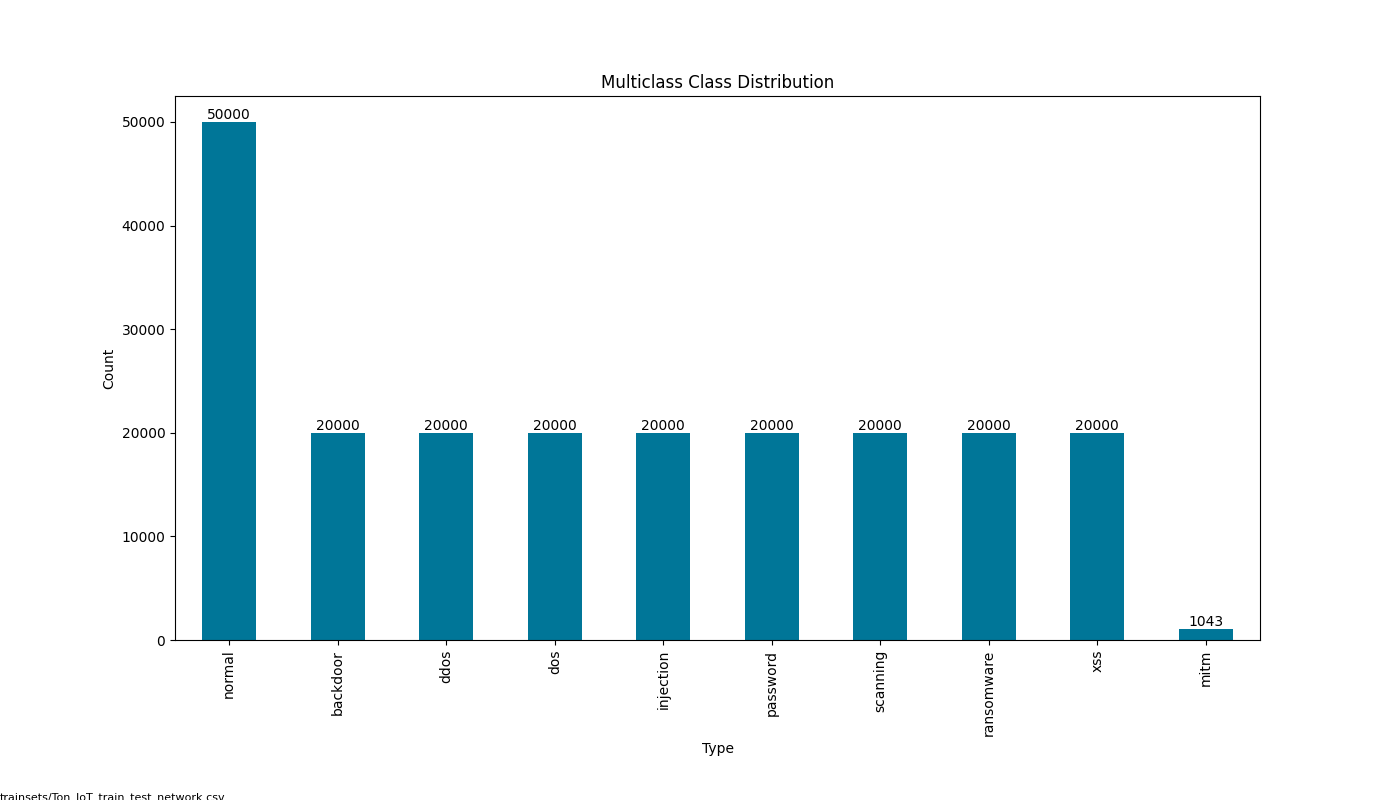
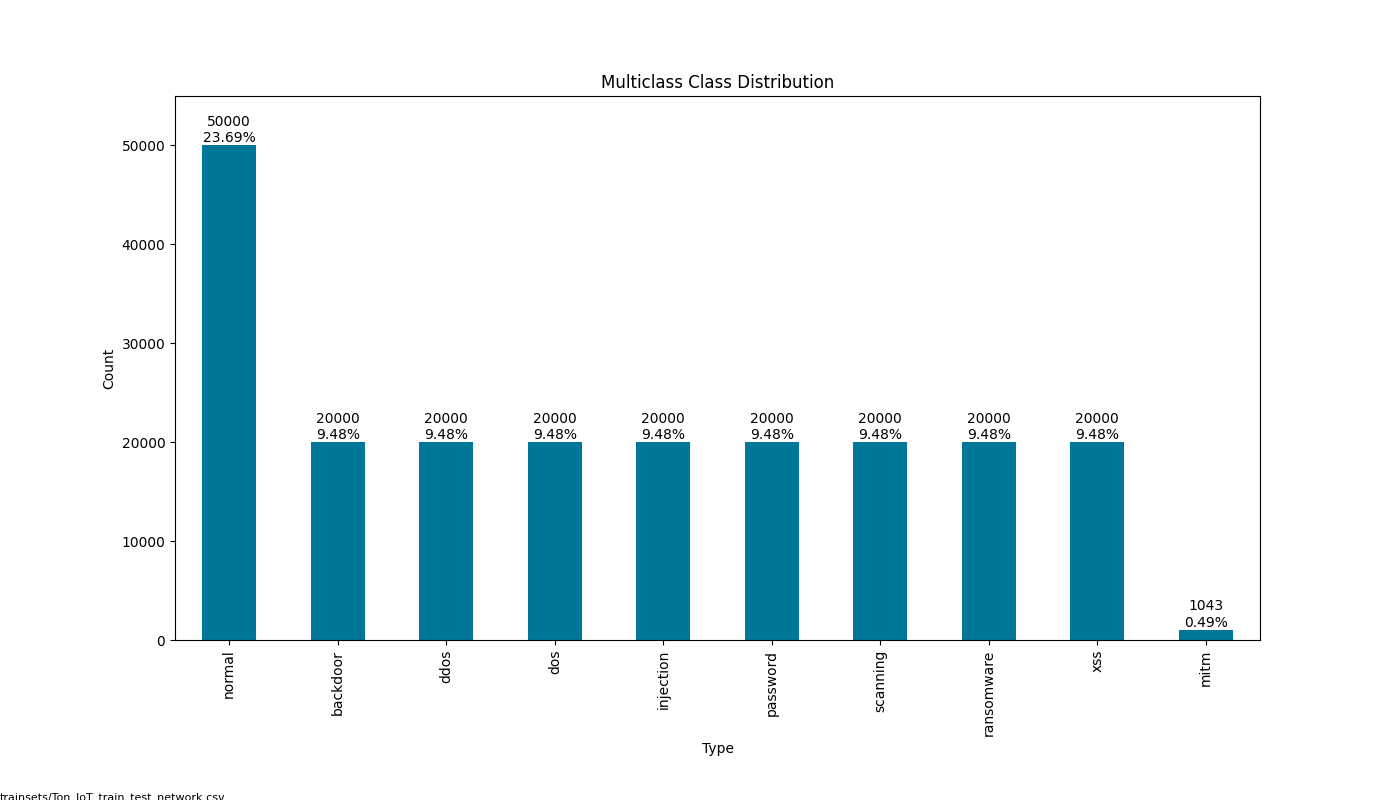
graphics pimp and stats

diff --git a/1-clean.py b/1-clean.py
@@ -140,19 +140,22 @@ plt.title("Multiclass Class Distribution")
 plt.xlabel("Type")
 plt.ylabel("Count")
 plt.figtext(0, 0, f"{args.data_set}", fontsize=8)
+plt.ylim(0, type_counts.max() * 1.1)
 plt.subplots_adjust(bottom=0.2)
 for i, count in enumerate(type_counts):
-    plt.text(i, count, str(count), ha="center", va="bottom", fontsize=10, )
-
+    percentage = count / type_counts.sum() * 100
+    plt.text(i, count, f"{count}\n{percentage:.2f}%", ha="center", va="bottom", fontsize=10)
 
 if args.show:
     plt.show()
 else:
     plt.savefig("graphics/multiclass-distribution.png")
 
-plt.figure(figsize=(14, 8))
+print(df['type'].value_counts(normalize=True))    
+
+plt.figure(figsize=(8, 8))
 type_counts = df['label'].value_counts()
-type_counts.index = type_counts.index.map({0: '0 - benign', 1: '1 - attack'})
+type_counts.index = type_counts.index.map({False: '0 - benign', True: '1 - attack'})
 type_counts.plot(kind='bar', color=['#007698'])
 plt.title("Binary Class Distribution")
 plt.xlabel("Type")
@@ -161,13 +164,27 @@ plt.xticks(rotation=0)
 plt.figtext(0, 0, f"{args.data_set}", fontsize=8)
 plt.subplots_adjust(bottom=0.2)
 for i, count in enumerate(type_counts):
-    plt.text(i, count, str(count), ha="center", va="bottom")
+    percentage = count / type_counts.sum() * 100
+    plt.text(i, count, f"{count} ({percentage:.2f}%)", ha="center", va="bottom", fontsize=10)
+
+# or pie chart?
+# plt.figure(figsize=(7, 7))
+# type_counts = df['label'].value_counts()
+# type_counts.index = type_counts.index.map({False: '0 - benign', True: '1 - attack'})
+# type_counts.plot(kind='pie', color=['#007698','#211a51'])
+# plt.title("Binary Class Distribution")
+# plt.figtext(0, 0, f"{args.data_set}", fontsize=8)
+# plt.subplots_adjust(bottom=0.2)
+# plt.pie(type_counts, autopct='%1.1f%% ')
+
 
 if args.show:
     plt.show()
 else:
     plt.savefig("graphics/binary-distribution.png")
 del(plt)
+
+print(df['label'].value_counts(normalize=True))    
 
 
 df.to_csv(os.path.splitext(args.data_set)[0] + "_clean.csv", index=False)
